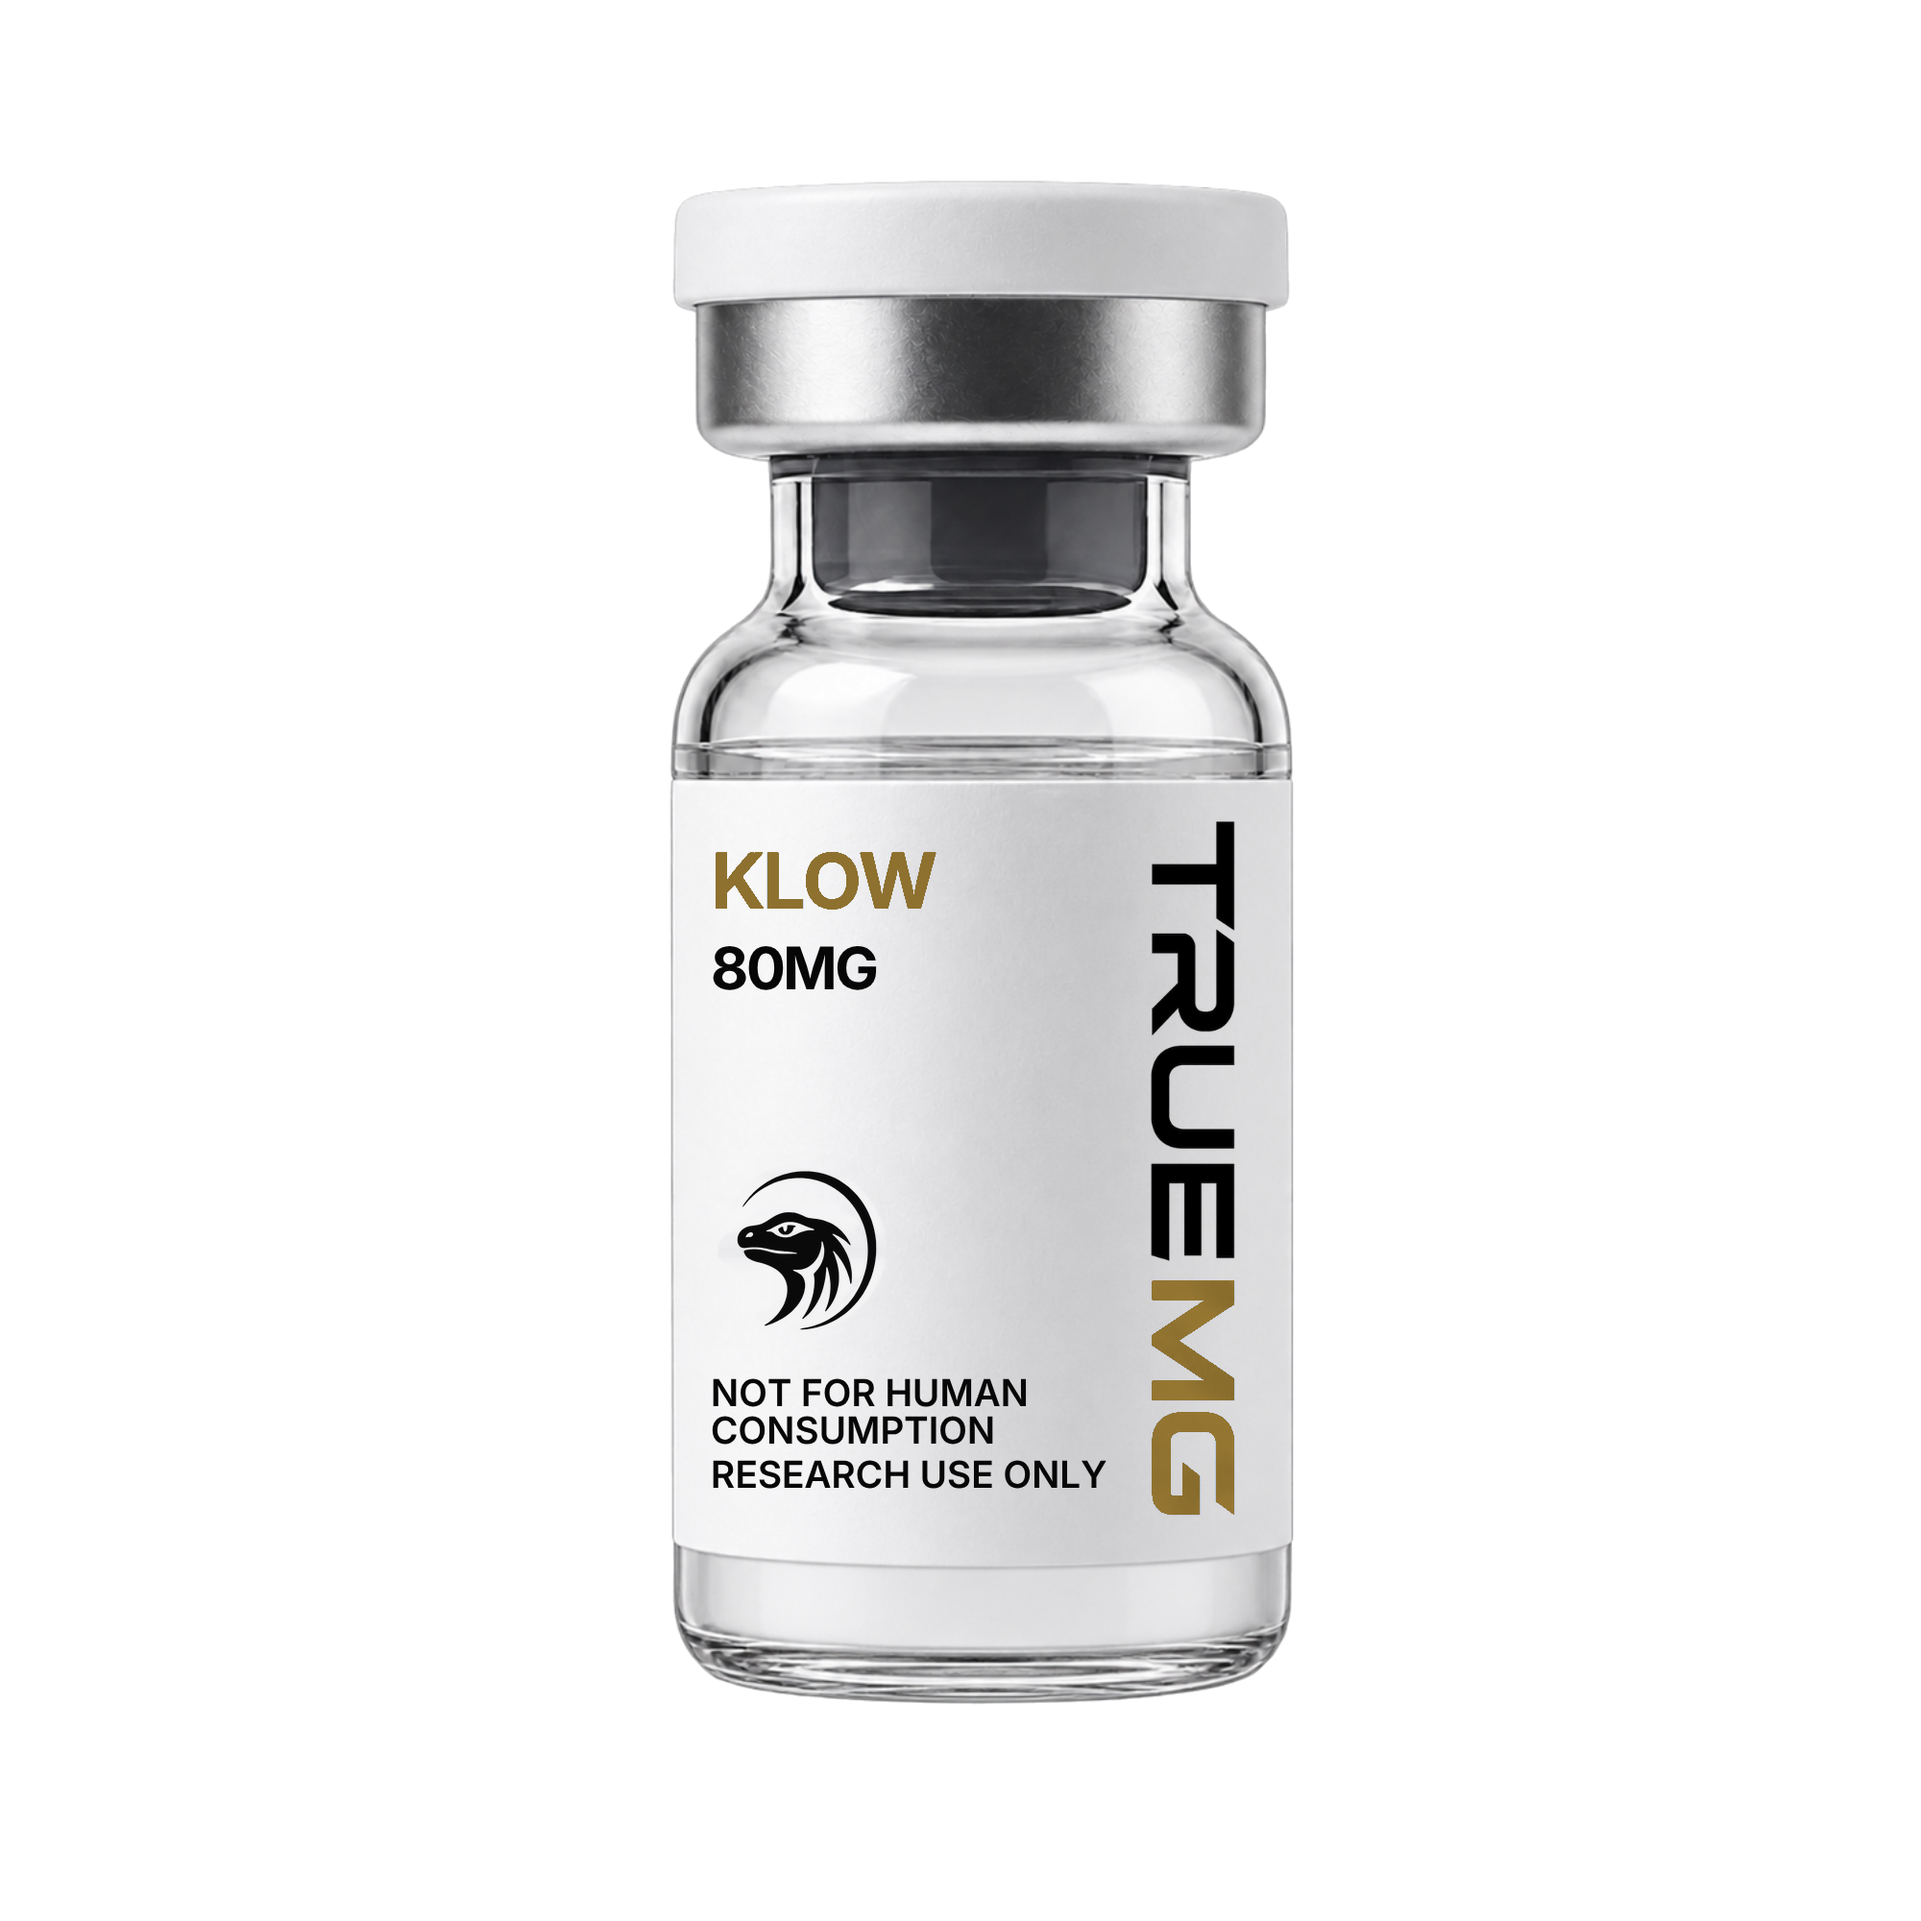
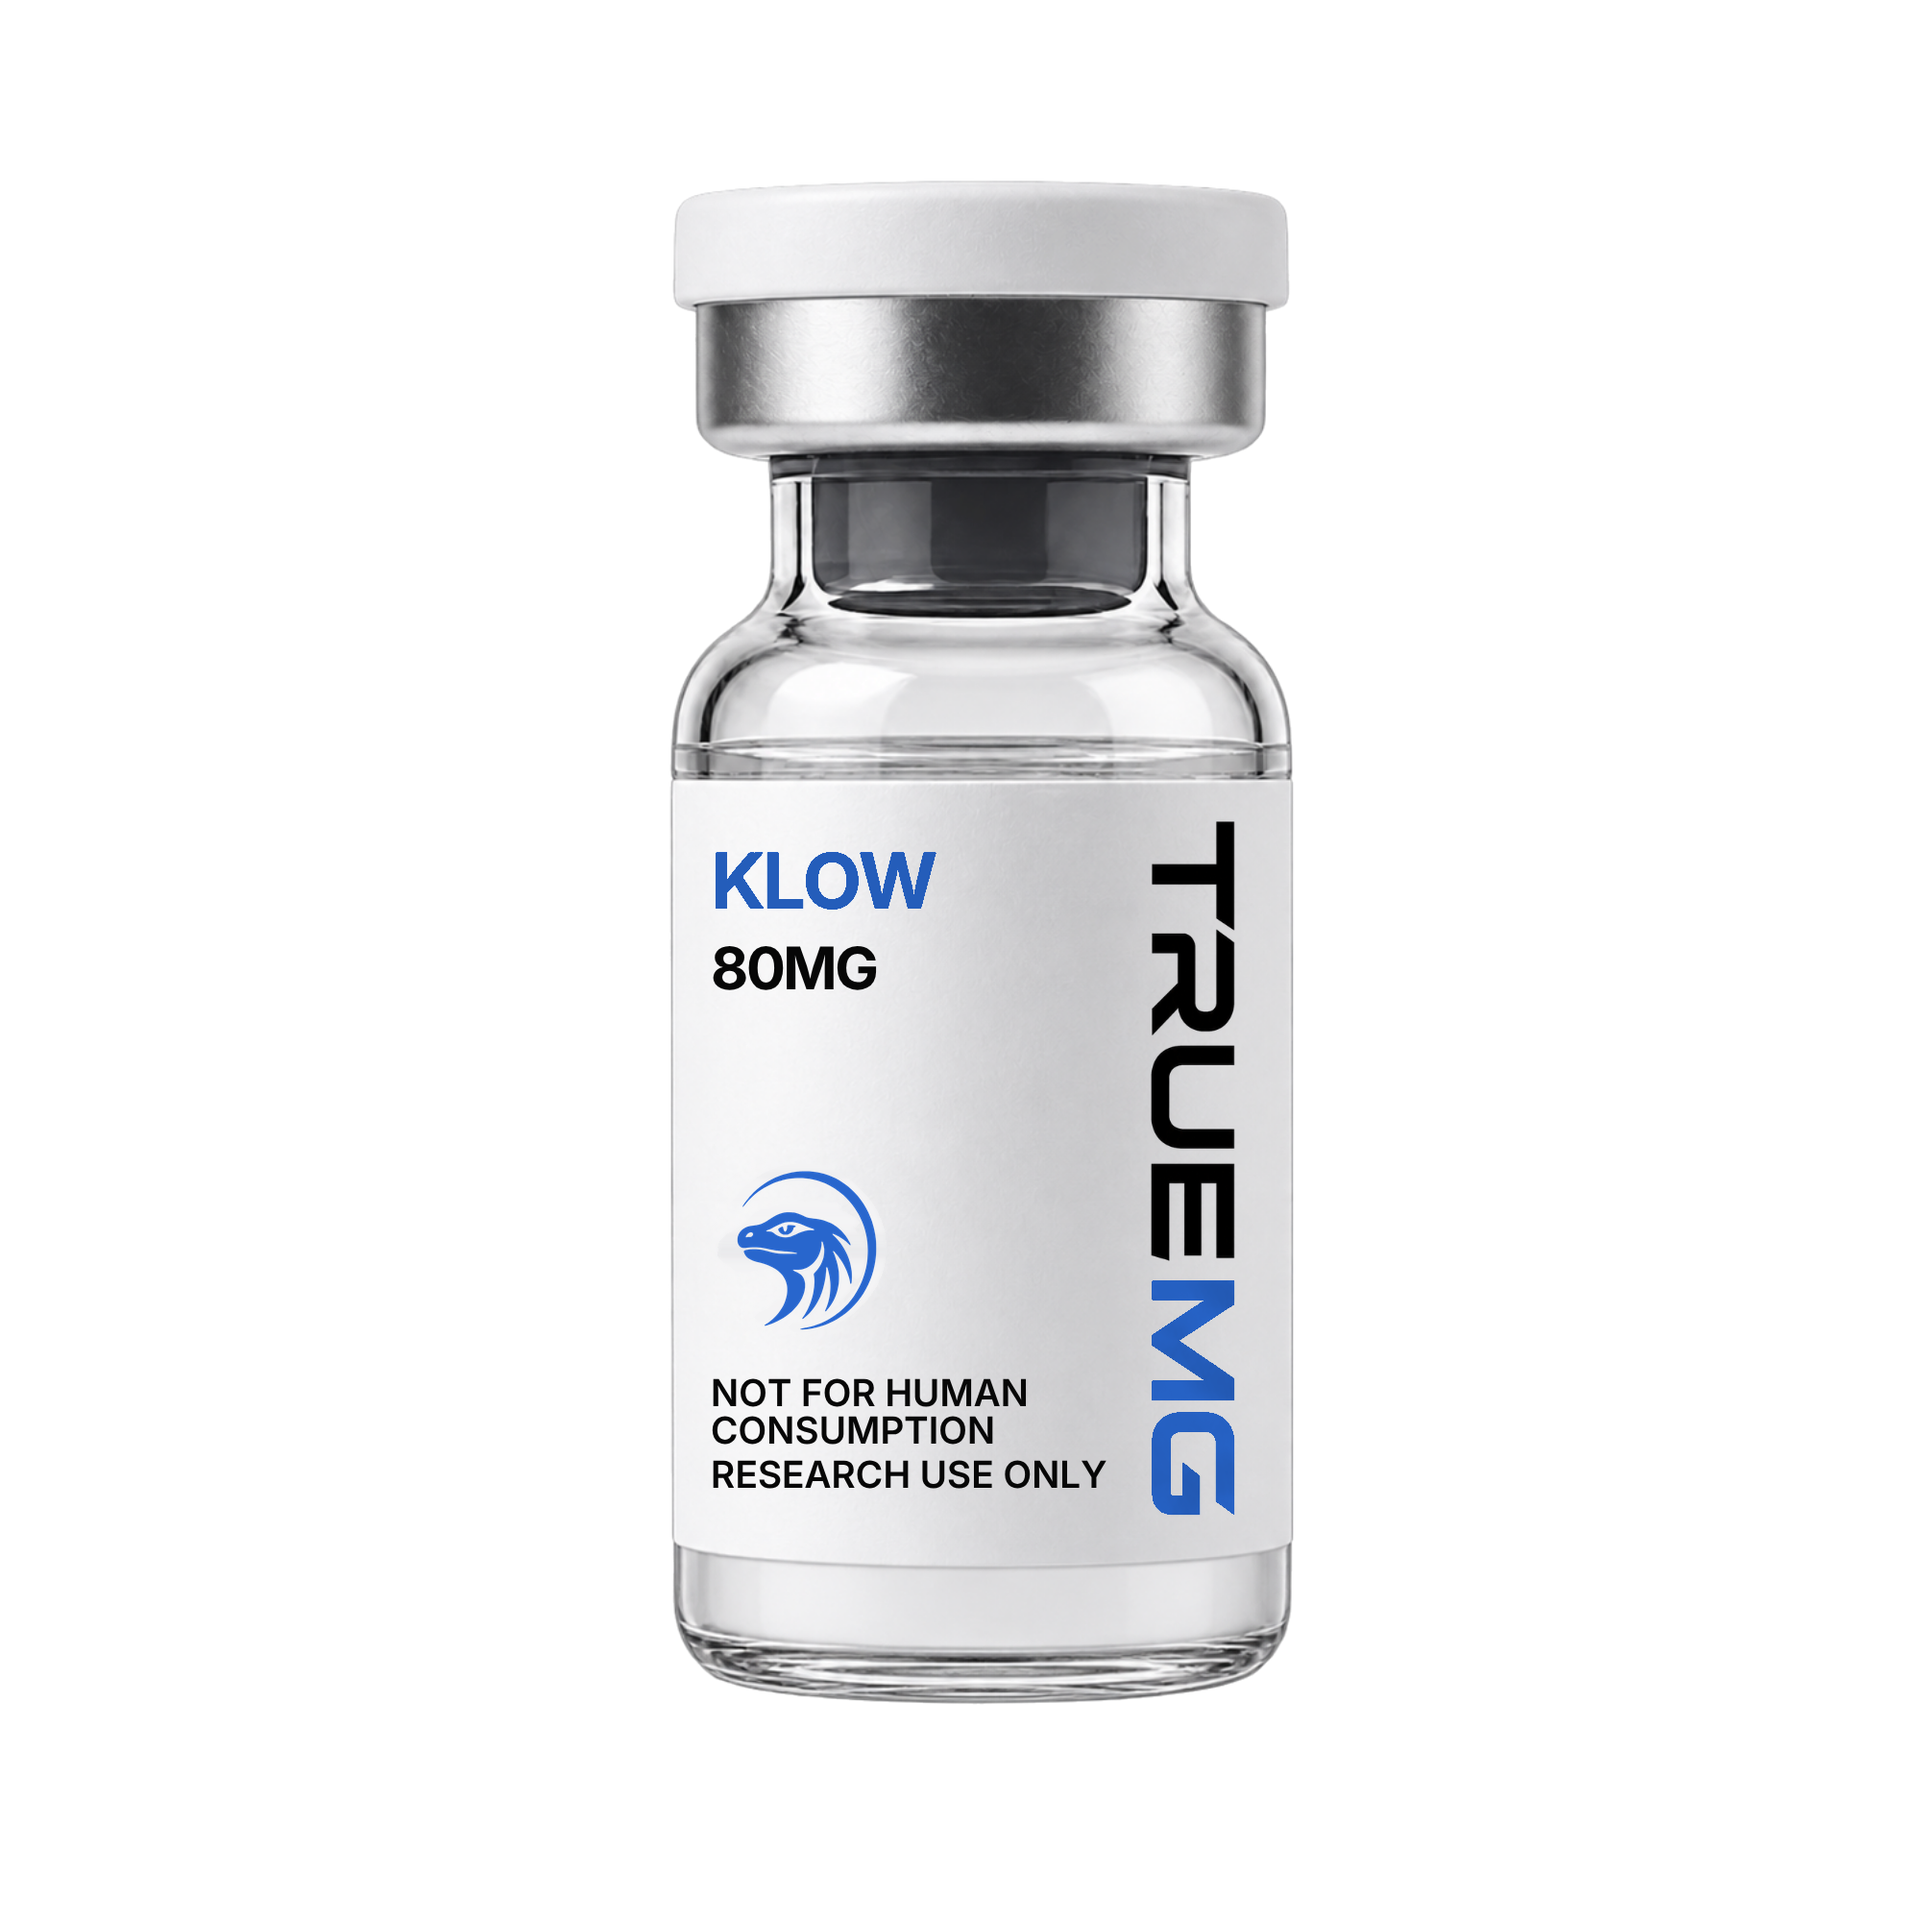
Put the vials in brand blue, and work the cap and crimp
The seventeen vial cut-outs still carried the gold retouch from before blue
was chosen, so rebrand.py now composites the Gila mark and recolours the type
in #2866CD and every vial was regenerated. The contact sheet is rebuilt from
the new artwork, on a checkerboard so a stray white halo would show rather
than hide against the page.

Adds truemg/assets/caps: six crimp and cap combinations plus a five-family
cap-coding set, recoloured hue-and-saturation-only so the photographed
highlights survive. The recommendation is a constant brand-blue crimp with the
flip-disc as the family code, and the README carries the supplier-minimum
caveat that makes blue-crimp-white-cap the cheapest first version.

Claude-Session: https://claude.ai/code/session_01GVck48CzMY6cqm4QCmkhM1

Changed region(s): [[0.589, 0.651, 0.651, 0.806], [0.372, 0.589, 0.465, 0.682], [0.372, 0.434, 0.496, 0.496]]

diff --git a/truemg/assets/caps/caps.py b/truemg/assets/caps/caps.py
@@ -1,0 +1,56 @@
+"""Recolour the flip-disc and the crimp band on a vial render, preserving all shading."""
+import numpy as np, colorsys, os
+from PIL import Image
+D=os.path.dirname(os.path.abspath(__file__)); os.chdir(D)
+
+SRC = "cut/brand/tmg-ghk-cu.png"
+DISC = (0.000, 0.085)      # white plastic flip-top, as fractions of vial height
+CRIMP= (0.085, 0.170)      # aluminium crimp band
+
+def hexrgb(h):
+    h=h.lstrip('#'); return tuple(int(h[i:i+2],16) for i in (0,2,4))
+
+def recolour(im, band, target):
+    """Map a band's average to `target` while keeping its relative light and shade."""
+    if target is None: return im
+    a = np.asarray(im).astype(float).copy()
+    al = a[:,:,3] > 128
+    rows = np.where(al.any(axis=1))[0]
+    y0 = rows.min() + int((rows.max()-rows.min())*band[0])
+    y1 = rows.min() + int((rows.max()-rows.min())*band[1])
+    sl = a[y0:y1, :, :3]; m = al[y0:y1]
+    if not m.any(): return im
+    hsv = np.array([colorsys.rgb_to_hsv(*(p/255)) for p in sl[m]])
+    th, ts, tv = colorsys.rgb_to_hsv(*(np.array(hexrgb(target))/255))
+    scale = tv / max(hsv[:,2].mean(), 1e-6)
+    out = np.array([colorsys.hsv_to_rgb(th, ts, min(v*scale, 1.0)) for v in hsv[:,2]])
+    sl[m] = out*255
+    a[y0:y1, :, :3] = sl
+    return Image.fromarray(a.clip(0,255).astype(np.uint8), "RGBA")
+
+def vial(crimp, cap):
+    im = Image.open(SRC).convert("RGBA")
+    im = recolour(im, CRIMP, crimp)
+    im = recolour(im, DISC,  cap)
+    return im
+
+BLUE, INK, PAPER = "#2866CD", "#141418", "#F2F2F0"
+OPTIONS = [
+    ("now — silver + white",      None,   None),
+    ("blue crimp + white cap",    BLUE,   PAPER),
+    ("silver crimp + blue cap",   None,   BLUE),
+    ("blue crimp + blue cap",     BLUE,   BLUE),
+    ("black crimp + white cap",   INK,    PAPER),
+    ("blue crimp + black cap",    BLUE,   INK),
+]
+os.makedirs("caps", exist_ok=True)
+for i,(name,c,k) in enumerate(OPTIONS):
+    vial(c,k).save(f"caps/opt{i}.png")
+    print(f"  {name}")
+
+# family coding: one constant blue crimp, cap colour carries the group
+FAMILY = [("Metabolic","#2866CD"),("Repair","#F2F2F0"),("Longevity","#141418"),
+          ("Cognitive","#5A9E86"),("Supplies","#9AA0A6")]
+for i,(n,c) in enumerate(FAMILY):
+    vial(BLUE, c).save(f"caps/fam{i}.png")
+print("family set:", len(FAMILY))

diff --git a/truemg/assets/vials/sheet.py b/truemg/assets/vials/sheet.py
@@ -1,0 +1,43 @@
+"""Contact sheet for the 17 cut-out, rebranded vials — checkerboard behind the
+alpha so a stray white halo shows up instead of hiding against a white page."""
+from PIL import Image, ImageDraw, ImageFont
+import os, glob, json
+
+R = "/home/user/first-project/truemg/assets/vials"
+F = lambda n, s: ImageFont.truetype("/usr/share/fonts/truetype/dejavu/" + n, s)
+MONO, BOLD = F("DejaVuSansMono.ttf", 13), F("DejaVuSans-Bold.ttf", 21)
+INK, MUT, BLUE = (10, 10, 11), (138, 133, 125), (64, 126, 224)
+
+files = sorted(glob.glob(os.path.join(R, "tmg-*.png")))
+COLS, CW, CH = 6, 172, 236
+rows = (len(files) + COLS - 1) // COLS
+W = 40 + COLS * CW + 20
+H = 108 + rows * CH + 24
+c = Image.new("RGB", (W, H), INK)
+d = ImageDraw.Draw(c)
+d.text((36, 28), "VIALS — cut out, rebranded, brand blue", font=BOLD, fill=(237, 235, 230))
+d.text((36, 60), "%d files · transparent PNG · new Gila mark in #2866CD on the white label"
+       % len(files), font=MONO, fill=MUT)
+
+# checkerboard tile so transparency is visible
+tile = Image.new("RGB", (16, 16), (30, 30, 32))
+ImageDraw.Draw(tile).rectangle([8, 0, 15, 7], fill=(38, 38, 41))
+ImageDraw.Draw(tile).rectangle([0, 8, 7, 15], fill=(38, 38, 41))
+
+for i, p in enumerate(files):
+    x = 36 + (i % COLS) * CW
+    y = 104 + (i // COLS) * CH
+    cell = Image.new("RGB", (CW - 14, CH - 44))
+    for ty in range(0, cell.height, 16):
+        for tx in range(0, cell.width, 16):
+            cell.paste(tile, (tx, ty))
+    v = Image.open(p).convert("RGBA")
+    k = min((cell.width - 16) / v.width, (cell.height - 16) / v.height)
+    v = v.resize((int(v.width * k), int(v.height * k)), Image.LANCZOS)
+    cell.paste(v, ((cell.width - v.width) // 2, (cell.height - v.height) // 2), v)
+    c.paste(cell, (x, y))
+    name = os.path.basename(p)[4:-4]
+    d.text((x, y + cell.height + 8), name[:21], font=MONO, fill=(222, 220, 214))
+
+c.save(os.path.join(R, "contact-sheet.jpg"), quality=92)
+print("contact-sheet.jpg  %dx%d  %d vials" % (W, H, len(files)))

diff --git a/truemg/assets/vials/rebrand.py b/truemg/assets/vials/rebrand.py
@@ -3,7 +3,7 @@ import numpy as np
 from scipy import ndimage
 from PIL import Image, ImageFilter
 
-GOLD_DEEP = np.array([156,124,52], float)   # #9C7C34 — the brand's accent ON PAPER
+BRAND_BLUE = np.array([40,102,205], float)   # #2866CD — the decided brand accent
 LIZARD_BOX = (725, 1185, 950, 1420)         # old mark on the 2000px label, measured
 
 def blue_mask(a):
@@ -25,7 +25,7 @@ def rebrand(path, mark_img):
     type_blue = blue & ~inbox
     if type_blue.any():
         lum = rgb[type_blue].astype(float).max(axis=1, keepdims=True) / 255.0
-        a[:,:,:3][type_blue] = np.clip(GOLD_DEEP * (0.55 + 0.45*lum), 0, 255).astype(np.uint8)
+        a[:,:,:3][type_blue] = np.clip(BRAND_BLUE * (0.55 + 0.45*lum), 0, 255).astype(np.uint8)
 
     # 2. erase the old dragon. The label carries a soft vertical gradient, so a flat
     #    median fill leaves a visible patch — reconstruct it row by row instead.
@@ -58,7 +58,7 @@ def rebrand(path, mark_img):
 
 if __name__ == "__main__":
     D=os.path.dirname(os.path.abspath(__file__)); os.chdir(D)
-    mark = Image.open("mark-ink-600.png").convert("RGBA")
+    mark = Image.open("mark-blue-600.png").convert("RGBA")
     os.makedirs("cut/brand", exist_ok=True)
     for f in sys.argv[1:]:
         rebrand("cut/out/"+f, mark).save("cut/brand/"+f)

diff --git a/truemg/assets/caps/README.md b/truemg/assets/caps/README.md
@@ -1,0 +1,45 @@
+# Cap and crimp
+
+The vial top is the only surface on the whole package that can carry colour
+without touching the label artwork, the copy, or the compliance block. Right
+now it is a silver aluminium crimp under a white plastic flip-disc — the
+default every contract filler ships, which is exactly why it reads as nobody's
+brand in particular.
+
+`caps.py` recolours the two bands on the existing vial photographs:
+
+| region | fraction of vial height | what it is |
+|---|---|---|
+| `DISC`  | 0.000 – 0.085 | white plastic flip-top |
+| `CRIMP` | 0.085 – 0.170 | aluminium crimp band |
+
+Hue and saturation are replaced; value is scaled rather than set
+(`scale = target_v / region_mean_v`), so every highlight, shadow and knurl on
+the original photograph survives the recolour. A flat fill would have produced
+a sticker, not a cap.
+
+## Recommendation
+
+**Blue crimp on every vial, cap colour as the family code.**
+
+The crimp is the constant — brand blue, `#2866CD`, the same blue as the
+wordmark and the Gila mark — so any two vials photographed together read as one
+company. The flip-disc then groups what gets bought together:
+
+| family | cap | products |
+|---|---|---|
+| Metabolic  | blue   | TMG-2TZ · TMG-3RT |
+| Repair     | white  | BPC · TB-500 · KLOW |
+| Longevity  | black  | NAD+ · MOTS-C · SS-31 |
+| Cognitive  | green  | SEMAX · SELANK |
+| Supplies   | grey   | Research Solution · B12 |
+
+## Cost note
+
+Colour-anodised crimps and custom flip-off caps carry supplier minimums —
+usually five figures of units per colour. The cheapest first version is **blue
+crimp, white cap, everywhere**, which is one colour and one minimum, and the
+family colours get added at the next reorder once volume justifies five.
+
+`caps-sheet.jpg` is the comparison sheet. `opt0`–`opt5` are the six crimp/cap
+combinations; `fam0`–`fam4` are the five family codes.
